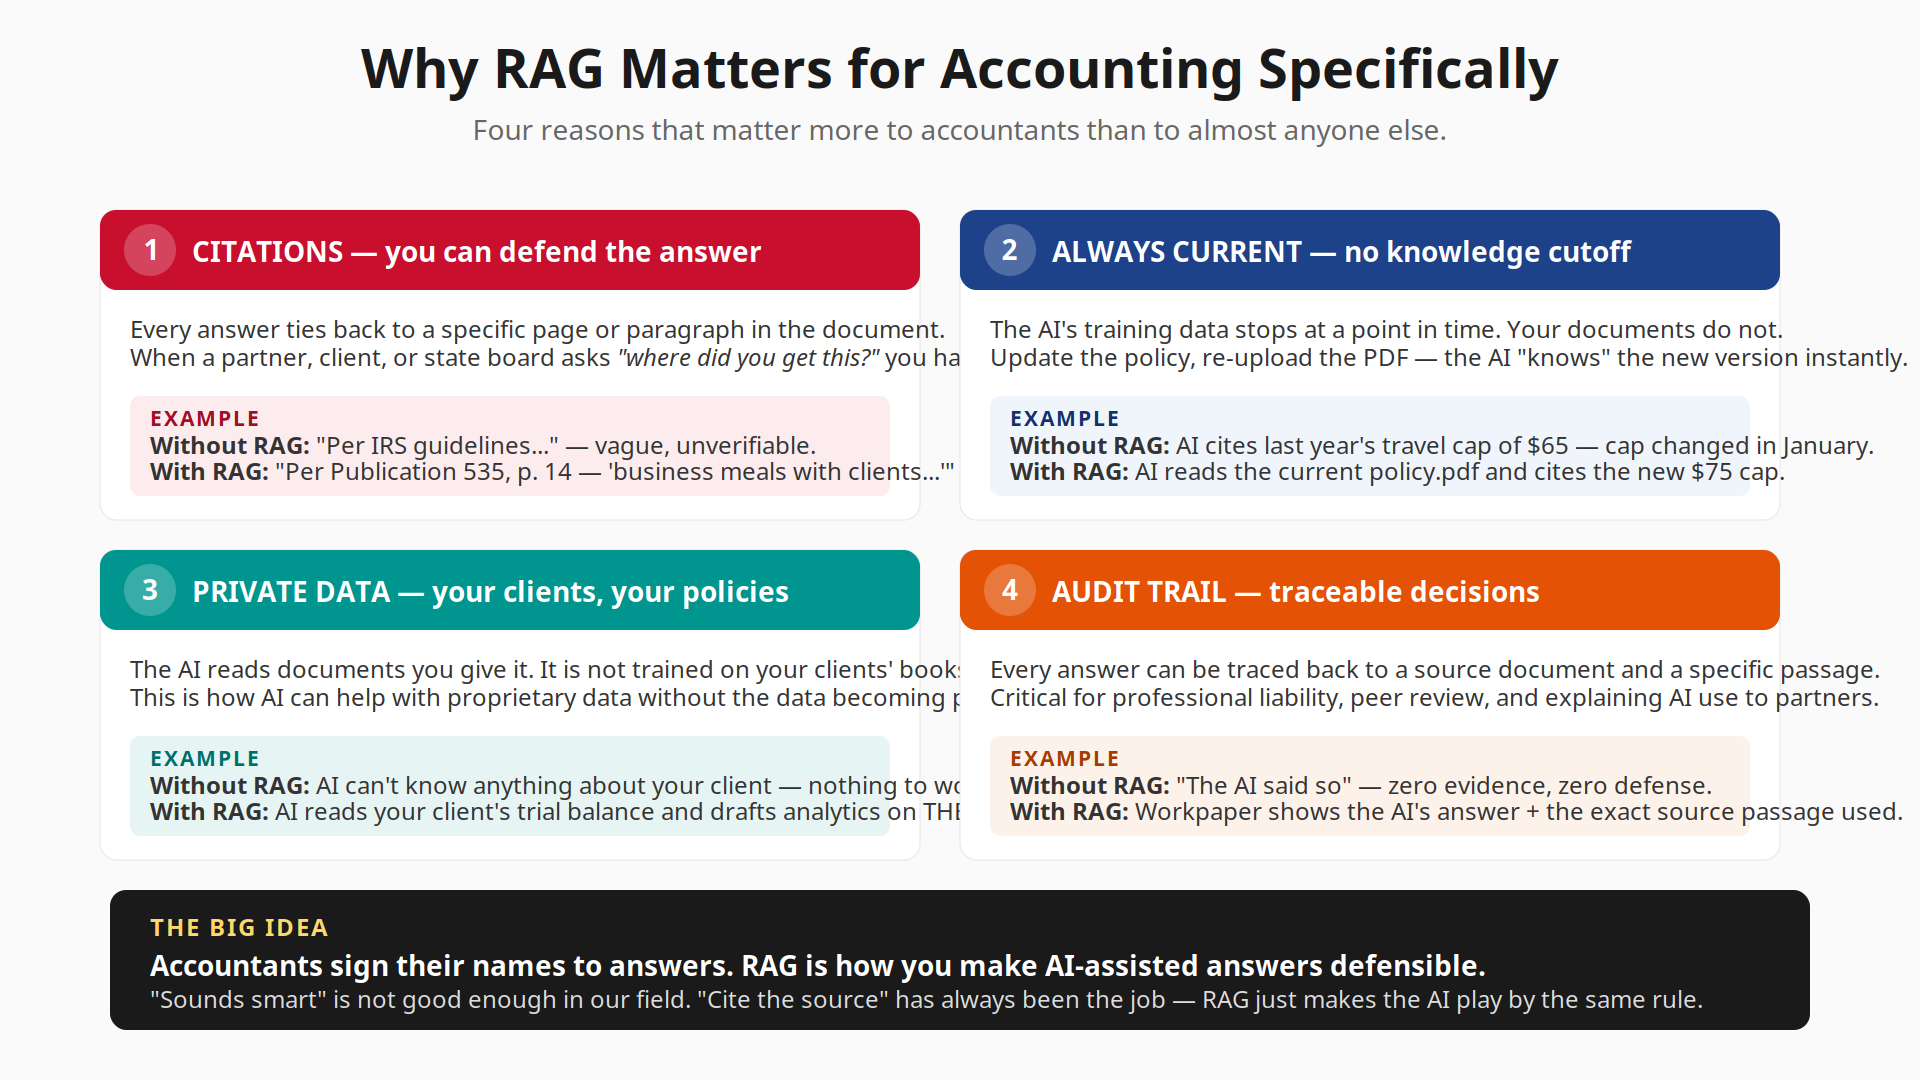
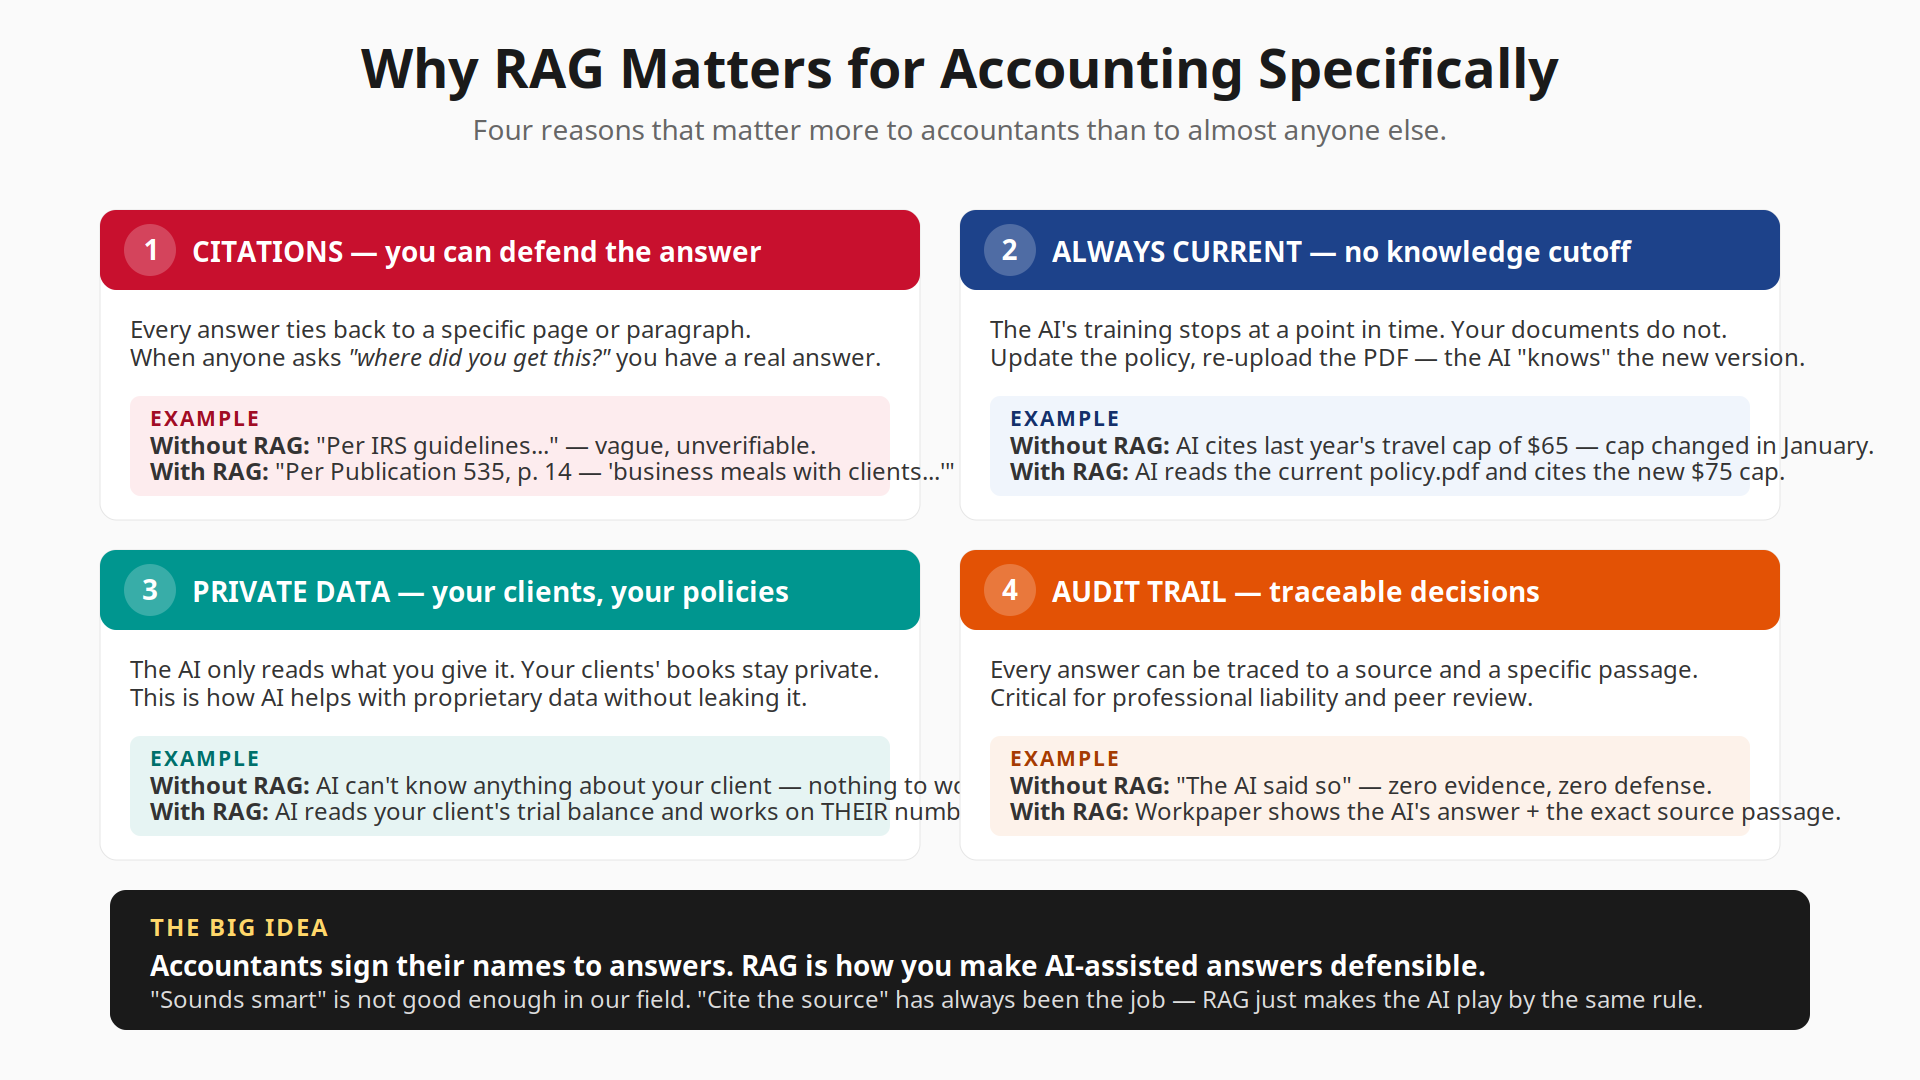
fix(talk): slide polish pass from UX review + user feedback
- Slide 6 (galaxy): widen region bubbles; drop "nearly identical" annotation that overlapped "semantically distant"
- Slide 14 (modern models): manual rotated arrowhead on trend line; wrap footnote
- Slide 15 (pick any tool) reordered before Exercise 1
- Slide 17 (RCTFC anatomy): remove gray arrows between cards; widen cards
- Slide 25 (prompt vs context): spread bullet line gaps
- Slide 26 (cold vs attached): move "Same AI" insight bar down
- Slide 31 (why RAG): shorten body text so lines fit 820px tiles

diff --git a/Materials/community-college-talk/lecture.html b/Materials/community-college-talk/lecture.html
@@ -274,6 +274,11 @@
                 <aside class="notes">At its core, AI predicts the next token from a list of probabilities. "Revenue..." → increased (34%), decreased (28%), grew (15%). TEMPERATURE is a dial from 0 to 1: Low (0.1) = picks the most likely word, very predictable, great for journal entries and tax calcs. High (0.9) = picks less likely words, more creative, great for brainstorming a client thank-you note. Accounting default: keep it LOW.</aside>
             </section>
 
+            <!-- Slide 15: Pick any of the three — quick intro (moved before Exercise 1) -->
+            <section data-background-image="images/slide-15.png" data-background-size="contain" data-background-color="#ffffff">
+                <aside class="notes">For today's exercises you can use any of these three — Gemini (gemini.google.com), ChatGPT (chatgpt.com), or Claude (claude.ai). They're all free at the basic tier. They all behave similarly for the exercises we'll do. Pick whichever you already have, or try a new one.</aside>
+            </section>
+
             <!-- ============================================
                  INTERACTIVE EXERCISE #1 — The Temperature Challenge
                  ============================================ -->
@@ -313,11 +318,6 @@
             <!-- Slide 14: The good news — modern models are better -->
             <section data-background-image="images/slide-14.png" data-background-size="contain" data-background-color="#ffffff">
                 <aside class="notes">Honest update: hallucinations were much worse two years ago. Today's flagship models — Claude Opus 4.7, Gemini 3.1, GPT-5 — hallucinate noticeably less, refuse more often when unsure, and cite sources better. On benchmarks like SimpleQA, modern models now correctly say "I don't know" at much higher rates. BUT: "better" ≠ "solved." In accounting, professional liability still lives with YOU. Verify every number, every citation, every client name.</aside>
-            </section>
-
-            <!-- Slide 15: Pick any of the three — quick intro -->
-            <section data-background-image="images/slide-15.png" data-background-size="contain" data-background-color="#ffffff">
-                <aside class="notes">For today's exercises you can use any of these three — Gemini (gemini.google.com), ChatGPT (chatgpt.com), or Claude (claude.ai). They're all free at the basic tier. They all behave similarly for the exercises we'll do. Pick whichever you already have, or try a new one.</aside>
             </section>
 
             <!-- ============================================
